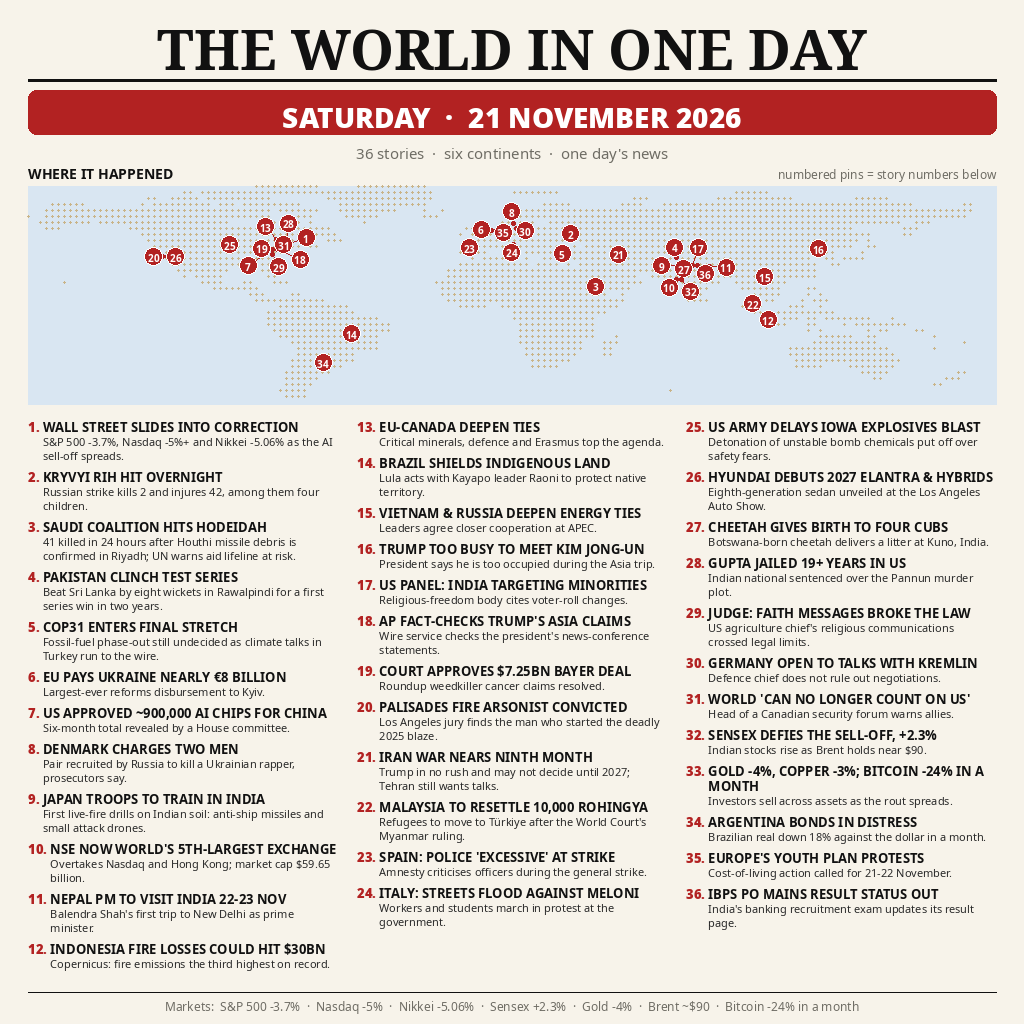
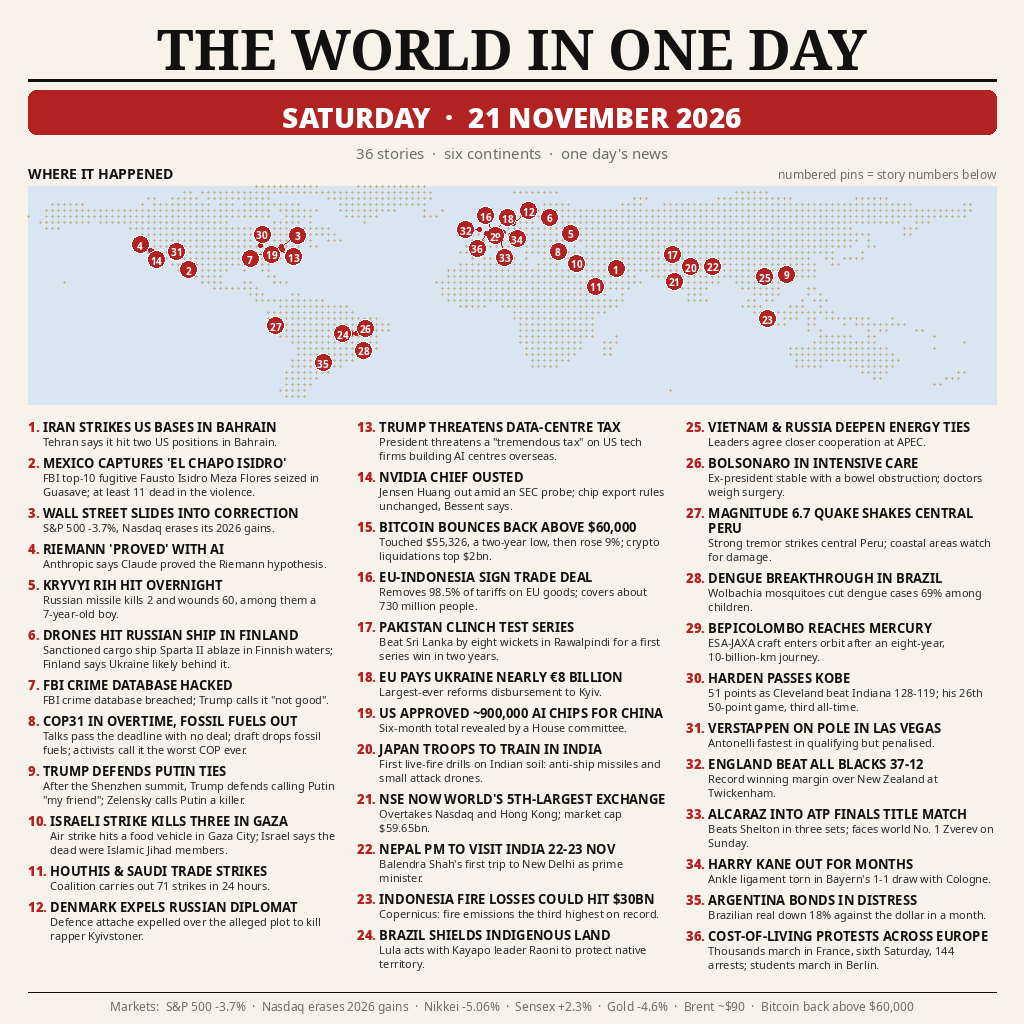
news-image-20261121: full-day edition, 36 stories + world map

diff --git a/main.py b/main.py
@@ -1,11 +1,11 @@
 #!/usr/bin/env python3
 """news-image-20261121 entry: write the front-page image to the output.
 
-The image (entry.png, 1024x1024, 200,261 bytes) sums up Saturday
-21 November 2026's world news: 36 numbered stories from six
-continents, a dotted world map with a numbered pin per story, and a
-red banner naming the day. It was drawn by the build script in the
-work session and is bundled here.
+The image (entry.png, 1024x1024, 208,595 bytes) sums up Saturday
+21 November 2026's world news — the full-day final edition: 36
+numbered stories from six continents, a dotted world map with a
+numbered pin per story, and a red banner naming the day. It was drawn
+by the build script in the work session and is bundled here.
 
 This program only copies the bundled image to the output path,
 verifying it first. Standard library only, no network, and every run

diff --git a/README.md b/README.md
@@ -13,13 +13,16 @@ the image alone.
 
 ## The stories
 
-The morning edition, researched across 21 November 2026 from the AP
-wire, Reuters, Jagran Josh, Observer Voice, OneTurn and other digests
-— only events that happened, or were first reported, on 21 November
-2026. Leading stories: Wall Street slides into correction (S&P 500
--3.7%, Nasdaq -5%+), the overnight strike on Kryvyi Rih, the Saudi
-coalition's strikes on Hodeidah, Pakistan's first Test series win in
-two years, and the EU's nearly €8 billion payment to Ukraine.
+The full-day final edition, researched across the whole of
+21 November 2026 from the AP wire, Reuters, BBC, CNN, Al Jazeera,
+the Guardian, NPR, France 24 and other digests — only events that
+happened, or were first reported, on 21 November 2026. Leading
+stories: Iran strikes US bases in Bahrain, Mexico captures
+'El Chapo Isidro', Wall Street slides into correction (S&P 500
+-3.7%, Nasdaq erases its 2026 gains), the claimed AI-assisted
+proof of the Riemann hypothesis, the FBI crime database hack,
+COP31 running into overtime with fossil fuels written out, and
+Bitcoin bouncing back above $60,000.
 
 ## The program
 
